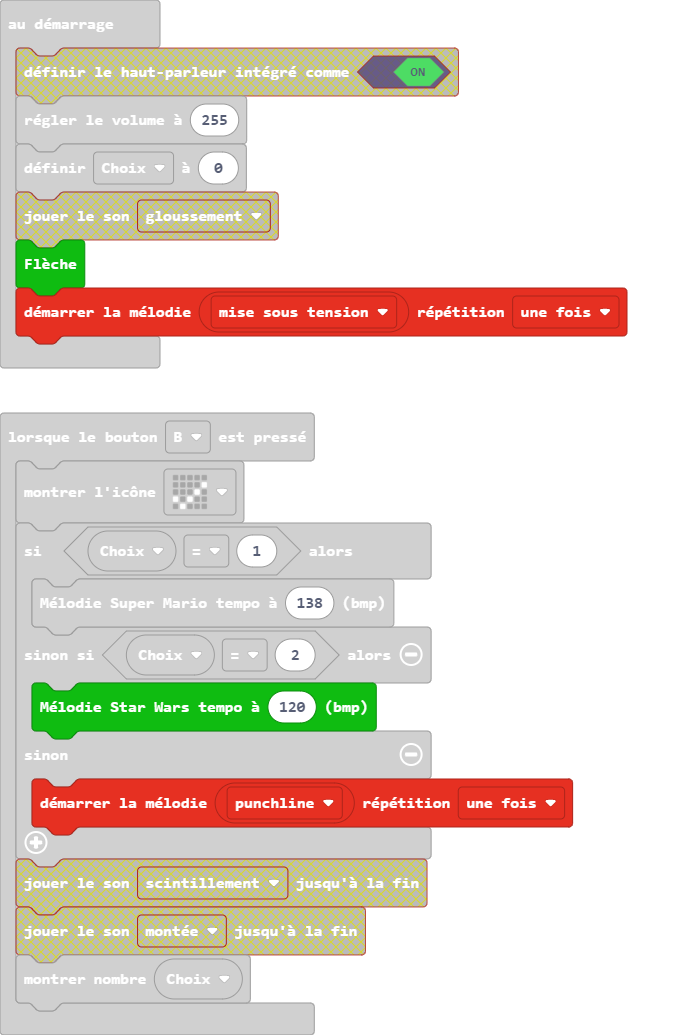
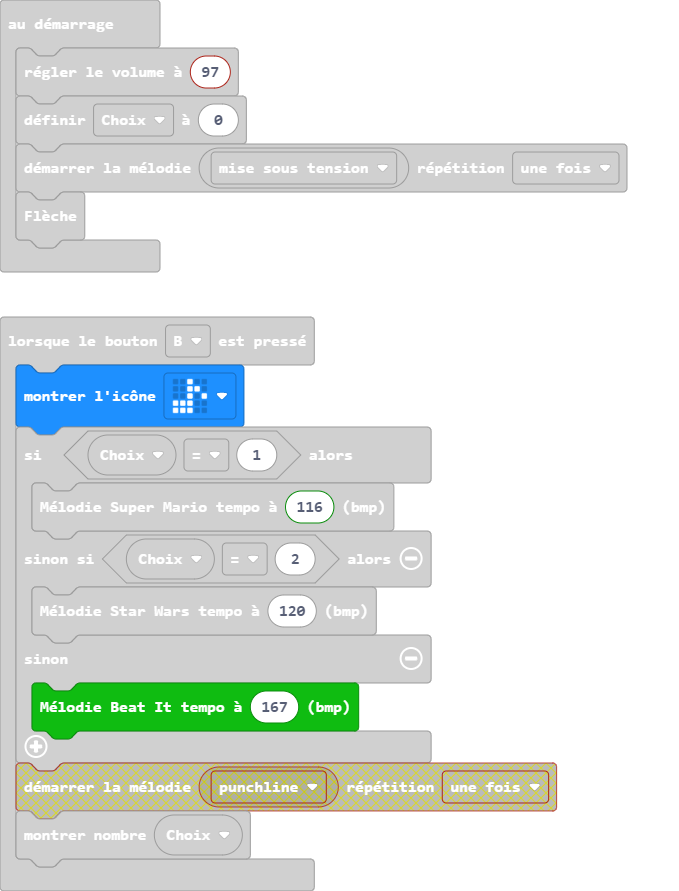
Mise à jour main.blocks, main.ts, custom.ts

diff --git a/custom.ts b/custom.ts
@@ -205,4 +205,81 @@ namespace extra {
             music.playTone(294, music.beat(BeatFraction.Whole))
         }
     }
+    /**
+    * Jouer mélodie Beat It
+    * @param tempo describe the beat, eg:120
+    */
+    //% block="Mélodie Beat It tempo à $tempo (bmp)"
+    //% tempo.min=4 tempo.max=400
+    //% tempo.fieldOptions.precision=1
+    export function Beat(tempo: number): void {
+        music.setTempo(tempo)
+        for (let index = 0; index < 2; index++) {
+            A()
+            music.playTone(294, music.beat(BeatFraction.Half))
+            music.rest(music.beat(BeatFraction.Half))
+            music.playTone(294, music.beat(BeatFraction.Half))
+            music.rest(music.beat(BeatFraction.Whole))
+            A()
+            music.playTone(294, music.beat(BeatFraction.Whole))
+            music.rest(music.beat(BeatFraction.Whole))
+        }
+        music.rest(music.beat(BeatFraction.Double))
+        for (let index = 0; index < 2; index++) {
+            B()
+        }
+        function B() {
+            music.playTone(494, music.beat(BeatFraction.Half))
+            music.playTone(494, music.beat(BeatFraction.Half))
+            music.playTone(494, music.beat(BeatFraction.Half))
+            music.playTone(440, music.beat(BeatFraction.Half))
+            music.playTone(494, music.beat(BeatFraction.Half))
+            music.playTone(440, music.beat(BeatFraction.Half))
+            music.playTone(494, music.beat(BeatFraction.Half))
+            music.playTone(587, music.beat(BeatFraction.Half))
+            music.playTone(494, music.beat(BeatFraction.Half))
+            music.playTone(440, music.beat(BeatFraction.Whole))
+            music.playTone(494, music.beat(BeatFraction.Double))
+            music.playTone(494, music.beat(BeatFraction.Half))
+            music.playTone(440, music.beat(BeatFraction.Half))
+            music.playTone(494, music.beat(BeatFraction.Half))
+            music.playTone(494, music.beat(BeatFraction.Half))
+            music.playTone(494, music.beat(BeatFraction.Half))
+            music.playTone(494, music.beat(BeatFraction.Half))
+            music.playTone(494, music.beat(BeatFraction.Half))
+            music.playTone(440, music.beat(BeatFraction.Half))
+            music.playTone(392, music.beat(BeatFraction.Half))
+            music.playTone(440, music.beat(BeatFraction.Half))
+            music.playTone(392, music.beat(BeatFraction.Half))
+            music.playTone(494, music.beat(BeatFraction.Double))
+            music.playTone(494, music.beat(BeatFraction.Half))
+            music.playTone(440, music.beat(BeatFraction.Half))
+            music.playTone(392, music.beat(BeatFraction.Half))
+            music.playTone(330, music.beat(BeatFraction.Half))
+            music.playTone(294, music.beat(BeatFraction.Half))
+            music.playTone(330, music.beat(BeatFraction.Whole))
+            music.playTone(330, music.beat(BeatFraction.Half))
+            music.playTone(330, music.beat(BeatFraction.Half))
+            music.playTone(370, music.beat(BeatFraction.Half))
+            music.playTone(330, music.beat(BeatFraction.Half))
+            music.playTone(294, music.beat(BeatFraction.Half))
+            music.playTone(247, music.beat(BeatFraction.Half))
+            music.playTone(294, music.beat(BeatFraction.Whole))
+            music.playTone(330, music.beat(BeatFraction.Whole))
+            music.playTone(392, music.beat(BeatFraction.Half))
+            music.playTone(330, music.beat(BeatFraction.Double))
+            music.playTone(330, music.beat(BeatFraction.Whole))
+            music.playTone(370, music.beat(BeatFraction.Half))
+            music.playTone(294, music.beat(BeatFraction.Breve))
+        }
+        function A() {
+            music.playTone(165, music.beat(BeatFraction.Whole))
+            music.playTone(196, music.beat(BeatFraction.Half))
+            music.playTone(247, music.beat(BeatFraction.Half))
+            music.playTone(392, music.beat(BeatFraction.Half))
+            music.playTone(330, music.beat(BeatFraction.Double))
+            music.playTone(370, music.beat(BeatFraction.Whole))
+            music.playTone(330, music.beat(BeatFraction.Half))
+        }
+    }
 }

diff --git a/main.ts b/main.ts
@@ -11,18 +11,18 @@ input.onButtonPressed(Button.A, function () {
     }
 })
 input.onButtonPressed(Button.B, function () {
-    basic.showIcon(IconNames.Yes)
+    basic.showIcon(IconNames.EigthNote)
     if (Choix == 1) {
-        extra.Super(138)
+        extra.Super(116)
     } else if (Choix == 2) {
         extra.Star(120)
     } else {
-        music.startMelody(music.builtInMelody(Melodies.Punchline), MelodyOptions.Once)
+        extra.Beat(167)
     }
     basic.showNumber(Choix)
 })
 let Choix = 0
-music.setVolume(255)
+music.setVolume(97)
 Choix = 0
 music.startMelody(music.builtInMelody(Melodies.PowerUp), MelodyOptions.Once)
 extra.fleche()
